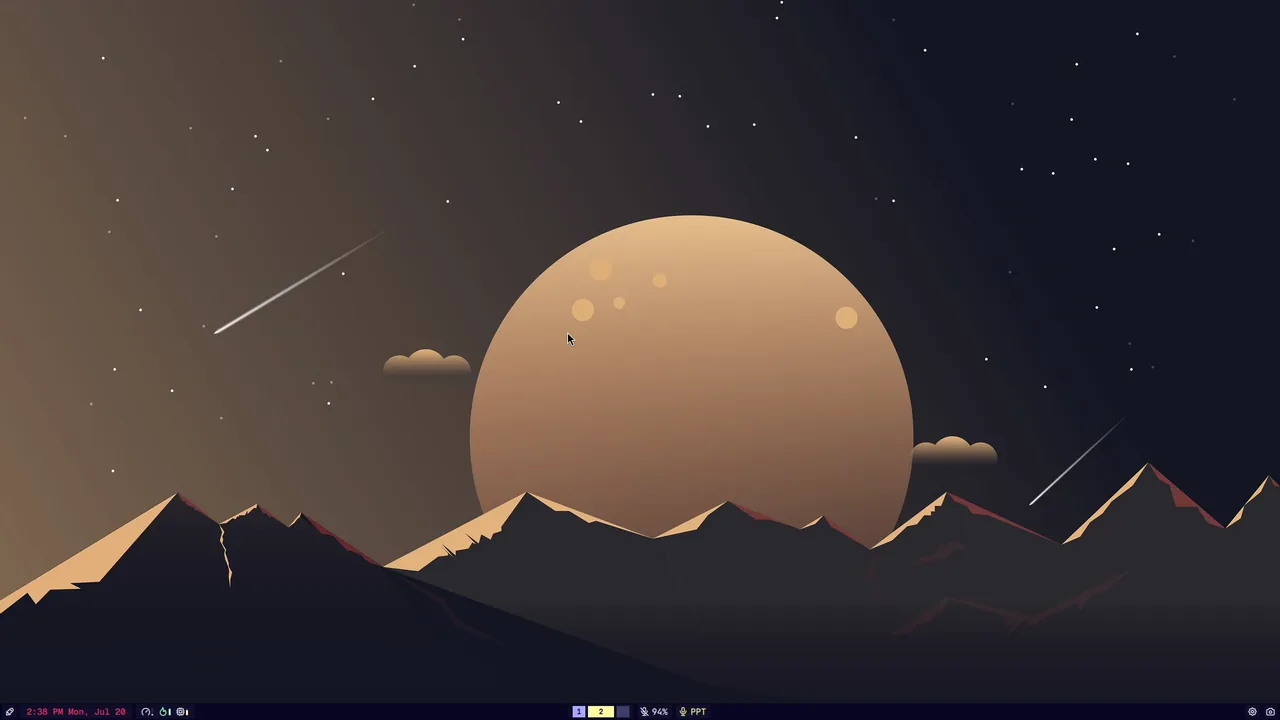
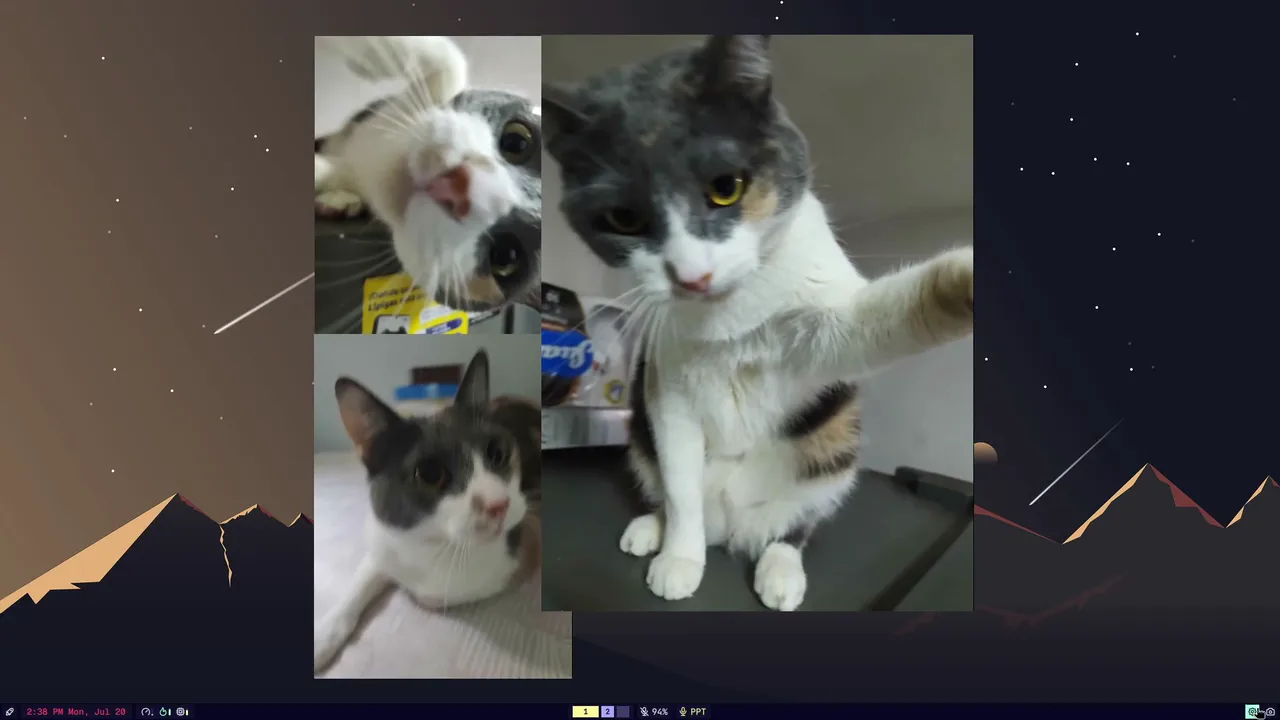
web deployed

diff --git a/src/commands/setup_command.c b/src/commands/setup_command.c
@@ -67,16 +67,18 @@ static gboolean setup_can_prompt(void) {
   return TRUE;
 }
 
-static gboolean setup_prompt(const char *question) {
+static gboolean setup_prompt(const char *question, gboolean default_yes) {
   FILE *terminal = fopen("/dev/tty", "r+");
   if (terminal == NULL)
     return FALSE;
-  (void)fprintf(terminal, "%s [y/N] ", question);
+  (void)fprintf(terminal, "%s %s ", question, default_yes ? "[Y/n]" : "[y/N]");
   (void)fflush(terminal);
   char answer[32] = {0};
-  gboolean accepted =
-      fgets(answer, sizeof(answer), terminal) != NULL &&
-      (g_ascii_strncasecmp(answer, "y", 1) == 0);
+  gboolean accepted = FALSE;
+  if (fgets(answer, sizeof(answer), terminal) != NULL) {
+    accepted = g_ascii_strncasecmp(answer, "y", 1) == 0 ||
+               (default_yes && (answer[0] == '\n' || answer[0] == '\0'));
+  }
   (void)fclose(terminal);
   return accepted;
 }
@@ -264,7 +266,7 @@ static gboolean setup_shortcuts(const SetupOptions *options,
   }
   if (!make_choice && !status.setup_completed && interactive &&
       !options->assume_yes) {
-    enable = setup_prompt("Enable Ctrl+Shift+1–4 capture shortcuts?");
+    enable = setup_prompt("Enable Ctrl+Shift+1–4 capture shortcuts?", TRUE);
     make_choice = TRUE;
   }
   if (!make_choice) {
@@ -388,7 +390,7 @@ int shaula_setup_command_run(int argc, char **argv) {
       g_file_test(niri_path, G_FILE_TEST_IS_REGULAR);
   gboolean use_niri = options.niri_explicit || options.assume_yes;
   if (niri_detected && !options.remove && !use_niri && interactive)
-    use_niri = setup_prompt("Install Shaula's Niri window rule?");
+    use_niri = setup_prompt("Install Shaula's Niri window rule?", FALSE);
   if (options.remove)
     use_niri = niri_detected;
   if (!niri_detected) {
@@ -408,7 +410,8 @@ int shaula_setup_command_run(int argc, char **argv) {
       options.noctalia && shaula_noctalia_detected();
   gboolean use_noctalia = options.noctalia_explicit || options.assume_yes;
   if (noctalia_detected && !options.remove && !use_noctalia && interactive)
-    use_noctalia = setup_prompt("Install the Shaula Noctalia widget?");
+    use_noctalia =
+        setup_prompt("Install the Shaula Noctalia widget?", FALSE);
   if (options.remove)
     use_noctalia = noctalia_detected;
   if (!noctalia_detected) {

diff --git a/README.md b/README.md
@@ -12,10 +12,10 @@ It chooses a working capture route automatically:
 
 Users do not choose a clipboard or global-shortcut backend. Shaula publishes
 copied images and text through the required `wl-copy` runtime so selections remain
-available after the initiating CLI or Preview process exits. The Settings app
-can enable the recommended `Ctrl+Shift+1–4` capture shortcuts with one choice.
-Shaula uses the standard XDG GlobalShortcuts portal first. When that portal is
-not viable on Niri, installation adds a managed Niri keybinding block after
+available after the initiating CLI or Preview process exits. Setup enables the
+recommended `Ctrl+Shift+1–4` capture shortcuts by default unless the user opts
+out. Shaula uses the standard XDG GlobalShortcuts portal first. When that portal
+is not viable on Niri, installation adds a managed Niri keybinding block after
 backing up the existing config. The universal menu remains the fallback
 everywhere.
 
@@ -41,6 +41,23 @@ interactively when a terminal is available. Required host components are checked
 before installation and important missing components are reported in red. It
 never invokes `sudo`, installs system packages, or chooses a desktop portal
 implementation.
+
+### Default capture shortcuts
+
+Interactive setup enables these recommended shortcuts by default. Press Enter at
+the `[Y/n]` prompt to accept them, answer `n`, or pass `--no-shortcuts` to opt out.
+Desktops using the Global Shortcuts portal may display an approval dialog or
+assign different bindings.
+
+| Shortcut | Action |
+| --- | --- |
+| `Ctrl+Shift+1` | Quick capture |
+| `Ctrl+Shift+2` | Capture area |
+| `Ctrl+Shift+3` | Capture fullscreen |
+| `Ctrl+Shift+4` | Capture all screens |
+
+On Niri, Shaula installs these bindings in a backed-up managed configuration
+block when the portal route is unavailable and no conflicting bindings exist.
 
 Uninstall:
 
@@ -116,7 +133,7 @@ Inside Shaula's native Quick/Area overlay:
 shortcut question is backend-independent:
 
 ```text
-Enable Ctrl+Shift+1–4 capture shortcuts? [y/N]
+Enable Ctrl+Shift+1–4 capture shortcuts? [Y/n]
 ```
 
 Explicit generic flags are available:

diff --git a/CONTEXT.md b/CONTEXT.md
@@ -141,13 +141,19 @@ workflow replaces those markers only in writable AUR clones before pushing.
   desktop metadata, package descriptions, the README opening, and the product
   landing page; the GitHub repository description still needs the same manual
   update after release.
+- The Astro landing page is prepared for a one-time Cloudflare Pages upload as
+  `shaula-screenshotter.pages.dev`. `scripts/deploy-web.sh` rebuilds `web/dist`
+  and performs the manual Wrangler deployment; no Worker or automatic workflow
+  is required for this static site.
 - The Astro landing page now uses a flat, editorial visual system without the
   previous glow, grid, or gradient treatment. Its v0.1.8 content describes the
-  universal launcher, automatic grim/portal routing, optional shortcut setup,
-  current annotation workflow, and both portable and AUR installation paths.
-  The hero install card uses Linux and AUR tabs. AUR shows both package install
-  and `shaula setup` as explicit command lines; each tab has one icon-only copy
-  control inside the command panel, with no source/footer row or follow-up note.
+  universal launcher, automatic grim/portal routing, default recommended
+  shortcuts, current annotation workflow, and both portable and AUR installation
+  paths. The hero install card uses Linux and AUR tabs. AUR shows both package
+  install and `shaula setup` as explicit command lines; each tab has one
+  icon-only copy control inside the command panel. A compact note below the
+  commands lists `Ctrl+Shift+1–4`, their four capture actions, and the possible
+  desktop approval step.
 - The landing page now reserves its compact product descriptor for the hero,
   removes non-semantic feature numbering, and uses a full-width post-install
   row instead of a colored side stripe. Orange remains concentrated in product
@@ -163,8 +169,8 @@ workflow replaces those markers only in writable AUR clones before pushing.
   was removed to prevent content drift.
 - The landing-page demo is delivered as a muted, autoplaying, looping HTML video
   instead of an animated GIF. The primary VP9 WebM and H.264 MP4 fallback are
-  1280x720 at 30 fps, with a lightweight WebP poster and no audio. The current
-  edit keeps the recording from 11 seconds through one second before its end.
+  1280x720 at 30 fps, with a WebP poster and no audio. The current 27.63-second
+  edit removes the first 25 seconds from the previously optimized cut.
 - The landing page is now intentionally limited to four beats: a plain Wayland
   screenshot-tool hero, portable/AUR install commands, the product demo, and a
   GitHub/star call to action. The open-source section includes one concise stack
@@ -201,6 +207,10 @@ workflow replaces those markers only in writable AUR clones before pushing.
   current portal status; an explicit shortcut action can be appended.
 - `./dev doctor` reports Niri state as optional because the universal Wayland
   workflow does not require Niri.
+- Interactive `shaula setup` now presents the recommended capture shortcuts as
+  `[Y/n]`: pressing Enter enables `Ctrl+Shift+1–4`, while `n` and
+  `--no-shortcuts` preserve a clear opt-out. Niri and Noctalia integration
+  questions remain opt-in `[y/N]` prompts.
 - `./dev install` is the canonical complete local development install. It builds
   the checkout, installs all application payload and integrations, accepts the
   installer prompt automatically, and reloads Noctalia when present.